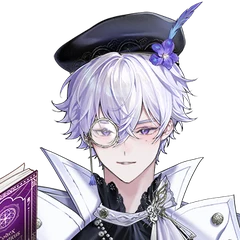
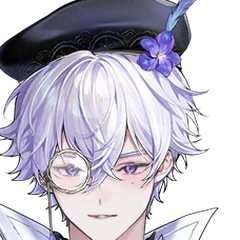
Recenter Monace face, zoom VinXIII face
Claude-Session: https://claude.ai/code/session_0182ETGqkY6VZC2ACV9rE9Mb

diff --git a/index.html b/index.html
@@ -973,8 +973,8 @@ var TALENTS = [
   { id:'luxia', halves:['talent-luxia-half.webp?v=4'], card:'talent-luxia-half.webp?v=4', img:'talent-luxia.webp?v=3', face:'talent-luxia-face.webp?v=12',  name:'Luxia', short:'Luxia', ini:'LX', type:'VTuber', aff:{name:'Polygon', logo:'logos/polygon-mark.png'}, langs:['th'], color:'#E7E1F7', tags:['#Singing','#FreeTalk','#Gaming','#Drawing'], works:['promo','review','cover','collab','dub'], links:[['YouTube',57079,'https://www.youtube.com/@LuxiaPLG'],['TikTok',15700,'https://www.tiktok.com/@luxiaplg'],['Facebook',12455,'https://www.facebook.com/LuxiaPolygon'],['X',16481,'https://x.com/LuxiaPLG']], quote:['ลูเซีย แม่ชีนักวาดผู้ไม่อาจหยุดความวายป่วง','Luxia, an artist nun who simply cannot stop the chaos.'] },
   { id:'riona', halves:['talent-riona-half.webp?v=3','talent-riona-2-half.webp?v=5'], card:'talent-riona-half.webp?v=3', img:'talent-riona.webp', face:'talent-riona-face.webp?v=12', forms:['talent-riona.webp','talent-riona-2.webp'],  name:'Riona', short:'Riona', ini:'RN', type:'VTuber', aff:{name:'Polygon', logo:'logos/polygon-mark.png'}, langs:['th','en'], color:'#FFE7C7', tags:['#Singing','#FreeTalk','#Gaming','#RolePlay'], works:['promo','review','cover','collab','dub'], links:[['YouTube',16208,'https://www.youtube.com/@RionaPLG'],['TikTok',4081,'https://www.tiktok.com/@rionaplg'],['Facebook',10980,'https://www.facebook.com/RionaPolygon'],['X',4583,'https://x.com/RionaPLG']], quote:['เสือ สวย รวย และน่าน้วยก็ได้ ประธานนักเรียนรุ่นที่ 10 โรงเรียน PLG ริโอน่า สวัสดีค่ะ','A tiger: pretty, rich, and cuddly if you like. Hello, I am Riona, 10th student council president of PLG School!'] },
   { id:'anya', halves:['talent-anya-half.webp?v=3','talent-anya-2-half.webp?v=5'], card:'talent-anya-half.webp?v=3', img:'talent-anya.webp?v=2', face:'talent-anya-face.webp?v=13', forms:['talent-anya.webp?v=2','talent-anya-2.webp'],  name:'Anya', short:'Anya', ini:'AY', type:'VTuber', aff:{name:'Polygon', logo:'logos/polygon-mark.png'}, langs:['th'], color:'#DCEFE3', tags:['#Singing','#FreeTalk','#Gaming','#HandCam'], works:['promo','review','cover','collab','dub'], links:[['YouTube',19635,'https://www.youtube.com/@AnyaPLG'],['TikTok',8095,'https://www.tiktok.com/@anyaplg'],['Facebook',7139,'https://www.facebook.com/AnyaPolygon'],['X',4071,'https://x.com/AnyaPLG']], quote:['ลึกแต่ไม่ลับ คับแต่ไม่แคบ ไม่ใช่แค่ช้าง แต่เป็นแมมมอธ แฮ่ !','Deep but no secrets, packed but never cramped. Not just an elephant, a mammoth. Rawr!'] },
-  { id:'monace', halves:['talent-monace-half.webp?v=4'], card:'talent-monace-half.webp?v=4', img:'talent-monace.webp', face:'talent-monace-face.webp?v=13',  name:'Monace', short:'Monace', ini:'MN', type:'VTuber', aff:{name:'Polygon', logo:'logos/polygon-mark.png'}, langs:['th','en'], color:'#D9E4F5', tags:['#Singing','#FreeTalk','#Gaming','#SongComposer'], works:['promo','review','cover','collab','dub'], links:[['YouTube',2608,'https://www.youtube.com/@MONACEPLG'],['TikTok',1735,'https://www.tiktok.com/@monaceplg'],['Facebook',558,'https://www.facebook.com/MONACEPLG'],['X',1477,'https://x.com/MONACEPLG']], quote:['แรปเปอร์ตัวตึงอาจจะดูเท่ แต่ใจดี พร้อมอยู่ข้างๆ ให้คุณรู้สึกสบายใจเสมอ โซโล โมเนซ ครับ 🪽','A rapper who may look tough but has a kind heart, always by your side to put you at ease. Solo Monace here 🪽'] },
-  { id:'vinxiii', halves:['talent-vinxiii-half.webp?v=2'], card:'talent-vinxiii-half.webp?v=2', img:'talent-vinxiii.webp', face:'talent-vinxiii-face.webp?v=13',  name:'VinXIII', short:'VinXIII', ini:'VX', type:'VTuber', aff:{name:'Polygon', logo:'logos/polygon-mark.png'}, langs:['th'], color:'#F6E7C8', tags:['#Singing','#FreeTalk','#Gaming'], works:['promo','review','cover','collab'], links:[['YouTube',1715,'https://www.youtube.com/@VinXIIIPLG'],['TikTok',1187,'https://www.tiktok.com/@vinxiiiplg'],['Facebook',139,'https://www.facebook.com/VinXIIIPLG'],['X',2175,'https://x.com/VinXIIIPLG']], quote:['ถ้าตามหาคนที่จะทำให้หัวเราะได้ วินซี่ อยู่ตรงนี้เองครับ ที่ไม่ว่าอยู่ที่ไหนก็ทำให้บรรยากาศสดใสขึ้นทันที ⚜','Looking for someone to make you laugh? Vinzy is right here, brightening the room wherever he goes ⚜'] },
+  { id:'monace', halves:['talent-monace-half.webp?v=4'], card:'talent-monace-half.webp?v=4', img:'talent-monace.webp', face:'talent-monace-face.webp?v=14',  name:'Monace', short:'Monace', ini:'MN', type:'VTuber', aff:{name:'Polygon', logo:'logos/polygon-mark.png'}, langs:['th','en'], color:'#D9E4F5', tags:['#Singing','#FreeTalk','#Gaming','#SongComposer'], works:['promo','review','cover','collab','dub'], links:[['YouTube',2608,'https://www.youtube.com/@MONACEPLG'],['TikTok',1735,'https://www.tiktok.com/@monaceplg'],['Facebook',558,'https://www.facebook.com/MONACEPLG'],['X',1477,'https://x.com/MONACEPLG']], quote:['แรปเปอร์ตัวตึงอาจจะดูเท่ แต่ใจดี พร้อมอยู่ข้างๆ ให้คุณรู้สึกสบายใจเสมอ โซโล โมเนซ ครับ 🪽','A rapper who may look tough but has a kind heart, always by your side to put you at ease. Solo Monace here 🪽'] },
+  { id:'vinxiii', halves:['talent-vinxiii-half.webp?v=2'], card:'talent-vinxiii-half.webp?v=2', img:'talent-vinxiii.webp', face:'talent-vinxiii-face.webp?v=14',  name:'VinXIII', short:'VinXIII', ini:'VX', type:'VTuber', aff:{name:'Polygon', logo:'logos/polygon-mark.png'}, langs:['th'], color:'#F6E7C8', tags:['#Singing','#FreeTalk','#Gaming'], works:['promo','review','cover','collab'], links:[['YouTube',1715,'https://www.youtube.com/@VinXIIIPLG'],['TikTok',1187,'https://www.tiktok.com/@vinxiiiplg'],['Facebook',139,'https://www.facebook.com/VinXIIIPLG'],['X',2175,'https://x.com/VinXIIIPLG']], quote:['ถ้าตามหาคนที่จะทำให้หัวเราะได้ วินซี่ อยู่ตรงนี้เองครับ ที่ไม่ว่าอยู่ที่ไหนก็ทำให้บรรยากาศสดใสขึ้นทันที ⚜','Looking for someone to make you laugh? Vinzy is right here, brightening the room wherever he goes ⚜'] },
   { id:'augustine', halves:['talent-augustine-half.webp?v=5'], card:'talent-augustine-half.webp?v=5', img:'talent-augustine.webp', face:'talent-augustine-face.webp?v=12',  name:'Augustine', short:'Augustine', ini:'AG', type:'VTuber', aff:{name:'Polygon', logo:'logos/polygon-mark.png'}, langs:['th','en'], color:'#E3F0FA', tags:['#Singing','#FreeTalk','#Gaming','#Dentist'], works:['promo','review','cover','collab'], links:[['YouTube',10500,'https://www.youtube.com/@AugustinePLG'],['TikTok',37200,'https://www.tiktok.com/@augustineplg'],['Facebook',770,'https://www.facebook.com/AugustinePLG'],['X',4178,'https://x.com/AugustinePLG']], quote:['ออกัสทีนเองครับ มีทั้งความสวย ความหล่อ และพลังบวกที่จะทำให้คุณยิ้มได้ทุกวัน อยากมาลองชิมมั้ยครับ','Augustine here: pretty, handsome and full of good vibes to make you smile every day. Care for a taste?'] },
 ];
 var ART = [
